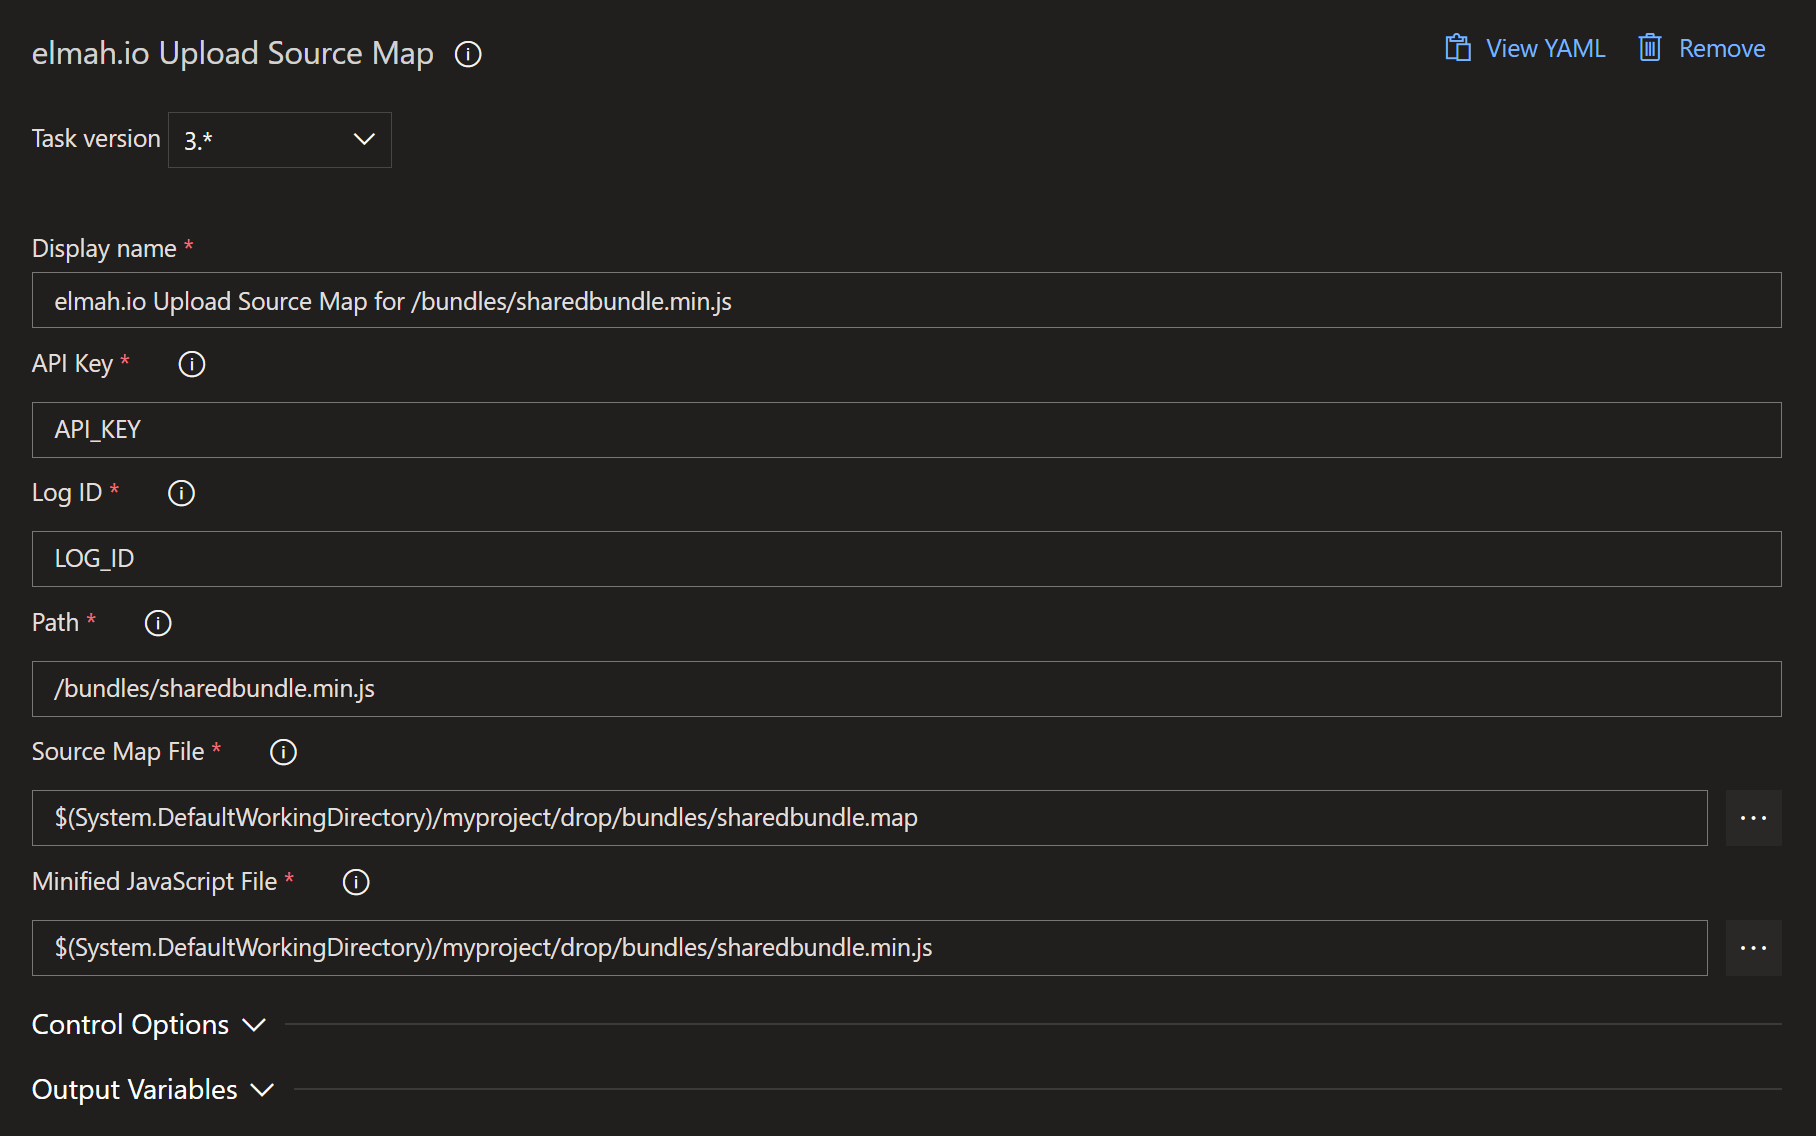
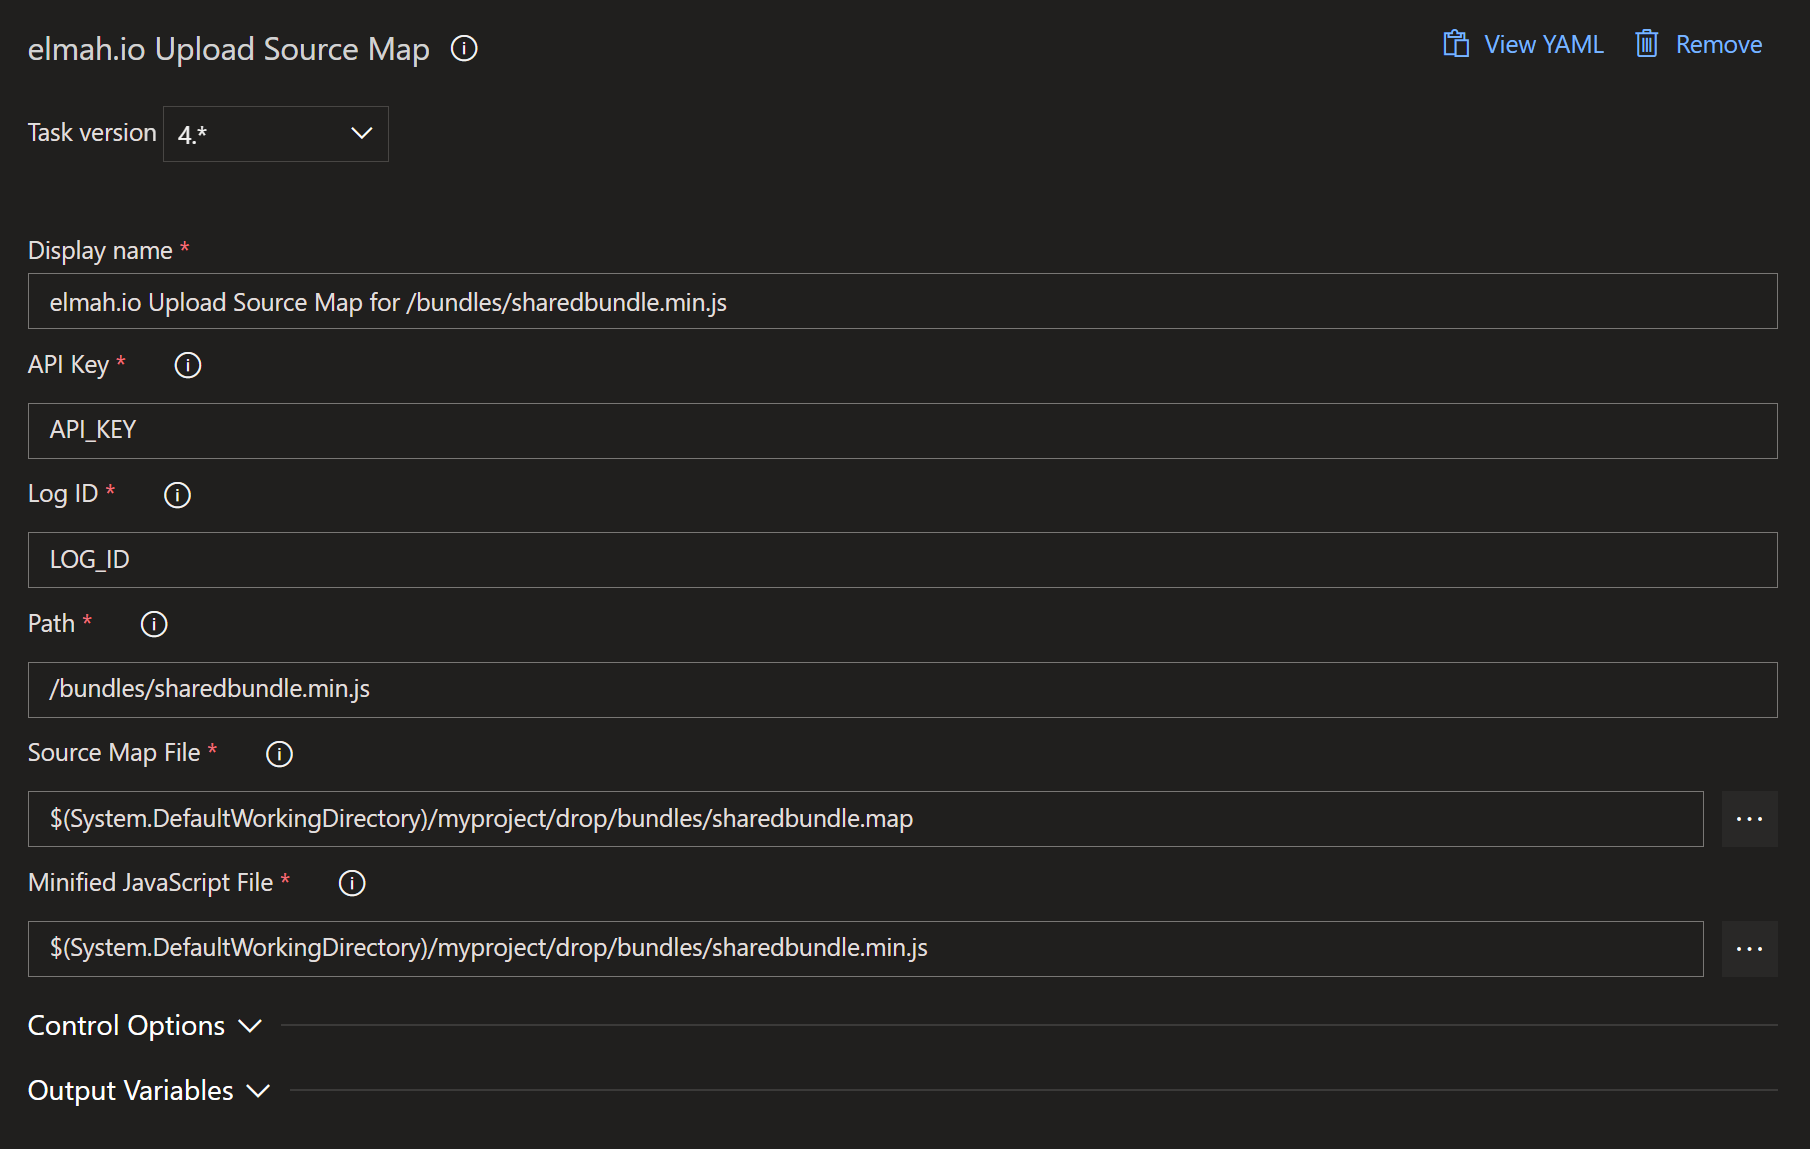
Updated to also run on Linux as well as documented for use on Pipelines

diff --git a/README.md b/README.md
@@ -4,16 +4,36 @@ This extension is able to upload a source map and a minified JavaScript file to 
 
 ## Usage
 
-1. Go to the [elmah.io Upload Source Map](https://marketplace.visualstudio.com/items?itemName=elmahio.elmah-io-upload-source-map) extension on the Azure DevOps Marketplace and click the _Get it free_ button:
+Go to the [elmah.io Upload Source Map](https://marketplace.visualstudio.com/items?itemName=elmahio.elmah-io-upload-source-map) extension on the Azure DevOps Marketplace and click the _Get it free_ button:
 
 ![Install the extension](images/marketplace_get_it_free.png)
 
-2. Select your organization and click the *Install* button:
+Select your organization and click the *Install* button:
 
 ![Select organization](images/marketplace_select_organization.png)
 
-3. Go to your Azure DevOps project and add the *elmah.io Upload Source Map* task. Fill in all fields as shown here:
+The task supports both Pipelines and Releases. No matter which approach you choose, you will need to replace `API_KEY` with an API key ([Where is my API key?](https://docs.elmah.io/where-is-my-api-key/)) with permission ([How to configure API key permissions](https://docs.elmah.io/how-to-configure-api-key-permissions/)) to upload source maps. Replace `LOG_ID` with the ID ([Where is my log ID?](https://docs.elmah.io/where-is-my-log-id/)) of the log the source map belongs to. **Path** must contain the relative path to the minified JavaScript. **Source Map File** and **Minified JavaScript File** must contain a path to the generated source map and minified JavaScript file.
+
+### Pipelines
+
+Go to your Azure DevOps Pipeline configuration and add the *elmah.io Upload Source Map* task. Fill in the fields as shown here:
+
+![Add the task](images/pipeline_task.png)
+
+When clicking the *Add* button, YAML code will be added to your configuration looking similar to this:
+
+```yaml
+- task: ElmahIoUploadSourceMap@4
+  inputs:
+    apiKey: 'API_KEY'
+    logId: 'LOG_ID'
+    path: '/bundles/sharedbundle.min.js'
+    sourceMap: '$(System.DefaultWorkingDirectory)/myproject/drop/bundles/sharedbundle.map'
+    minifiedJavaScript: '$(System.DefaultWorkingDirectory)/myproject/drop/bundles/sharedbundle.min.js'
+```
+
+### Releases
+
+Go to your Azure DevOps Release configuration and add the *elmah.io Upload Source Map* task. Fill in all fields as shown here:
 
 ![Add the task](images/release_pipeline_task.png)
-
-You will need to replace `API_KEY` with an API key ([Where is my API key?](https://docs.elmah.io/where-is-my-api-key/)) with permission ([How to configure API key permissions](https://docs.elmah.io/how-to-configure-api-key-permissions/)) to upload source maps and `LOG_ID` with the ID ([Where is my log ID?](https://docs.elmah.io/where-is-my-log-id/)) of the log the source map belongs to. **Path** must contain the relative path to the minified JavaScript. **Source Map File** and **Minified JavaScript File** must contain a path to the generated source map and minified JavaScript file.
